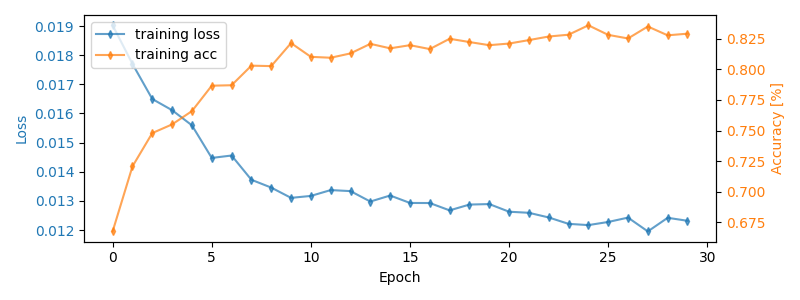
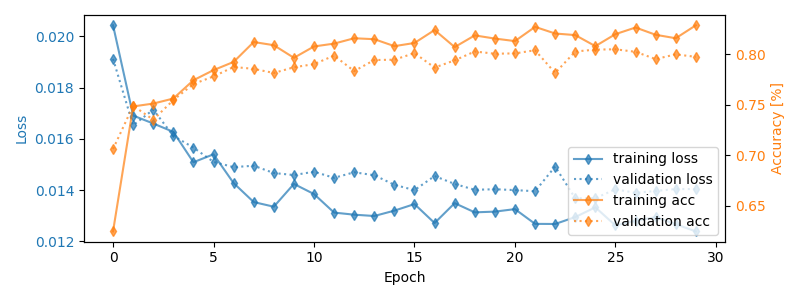
some xample changes to include validation dataset, and plot changes

diff --git a/examples/EEG_sleepstaging_rp.py b/examples/EEG_sleepstaging_rp.py
@@ -4,7 +4,7 @@ import torch
 import numpy as np
 import matplotlib.pyplot as plt
 
-from neurocode.utils import BCEWithLogitsAccuracy
+from neurocode.utils import BCEWithLogitsAccuracy, recording_train_valid_split
 from neurocode.datasets import RecordingDataset
 from neurocode.samplers import RelativePositioningSampler
 from neurocode.models import ContrastiveNet, StagerNet
@@ -21,14 +21,15 @@ window_size_s = 30
 sfreq = 100
 window_size_samples = window_size_s * sfreq
 picks = 'eeg'
-subjects = list(range(3))
+subjects = list(range(11))
 recordings = [1]
 tau_pos =  2  # 2*30 seconds = 60 seconds = 1 minute makes up the positive context
 tau_neg = 30  # 30*30 seconds = 900 seconds = 15 minutes makes up the negative context
-n_samples = 256
+n_samples = 100
 batch_size = 32
 n_channels = 2
 emb_size = 100
+split = .7
 
 # fetch the dataset
 dataset = SleepPhysionet(subject_ids=subjects, recording_ids=recordings, crop_wake_mins=30, load_eeg_only=True)
@@ -47,12 +48,14 @@ windows_dataset = create_fixed_length_windows(dataset,
         preload=True, picks=picks)
 
 # Reformat the BaseConcatDataset created by braindecode to a recording-window relative dataset
-recording_dataset = RecordingDataset(windows_dataset.datasets, sfreq=sfreq, channels='eeg')
+recordings_train, recordings_valid = recording_train_valid_split(windows_dataset.datasets, split=split)
+datasets = dict(train=RecordingDataset(recordings_train, sfreq=sfreq, channels='MEG'),
+                valid=RecordingDataset(recordings_valid, sfreq=sfreq, channels='MEG'))
+#recording_dataset = RecordingDataset(windows_dataset.datasets, sfreq=sfreq, channels='eeg')
 
 # Set up a Relative Positioning sampler to use for training the Contrastive Network
-sampler = RelativePositioningSampler(recording_dataset.get_data(), 
-        recording_dataset.get_info(), tau_neg=tau_neg, tau_pos=tau_pos,
-        n_samples=n_samples, batch_size=batch_size)
+samplers = dict(train=RelativePositioningSampler(datasets['train'].get_data(), datasets['train'].get_info(), tau_neg=tau_neg, tau_pos=tau_pos, n_samples=n_samples, batch_size=batch_size),
+                valid=RelativePositioningSampler(datasets['valid'].get_data(), datasets['valid'].get_info(), tau_neg=tau_neg, tau_pos=tau_pos, n_samples=n_samples, batch_size=batch_size, presample=True))
 
 # Setup pytorch training, move models etc.
 device = 'cuda' if torch.cuda.is_available() else 'cpu'
@@ -62,7 +65,7 @@ optimizer = torch.optim.Adam(model.parameters(), lr=5e-4, weight_decay=1e-6)
 criterion = torch.nn.BCEWithLogitsLoss()
 
 epochs = 30
-history = dict(tloss=list(), tacc=list())
+history = dict(tloss=list(), tacc=list(), vloss=list(), vacc=list())
 emb.train()
 model.train()
 
@@ -71,7 +74,8 @@ print(f'  epoch      training loss      training acc')
 print(f'--------------------------------------------------')
 for epoch in range(epochs):
     tloss, tacc = 0., 0.
-    for batch, (anchors, samples, labels) in enumerate(sampler):
+    vloss, vacc = 0., 0.
+    for batch, (anchors, samples, labels) in enumerate(samplers['train']):
         anchors, samples, labels = anchors.to(device), samples.to(device), torch.unsqueeze(labels.to(device), dim=1)
         optimizer.zero_grad()
         outputs = model((anchors, samples))
@@ -80,16 +84,31 @@ for epoch in range(epochs):
         optimizer.step()
         tloss += loss.item() / outputs.shape[0]
         tacc += BCEWithLogitsAccuracy(outputs, labels) / outputs.shape[0]
-    tloss /= len(sampler)
-    tacc /= len(sampler)
+    emb.eval()
+    model.eval()
+    with torch.no_grad():
+        for batch, (anchors, samples, labels) in enumerate(samplers['valid']):    
+            anchors, samples, labels = anchors.to(device), samples.to(device), torch.unsqueeze(labels.to(device), dim=1)
+            outputs = model((anchors, samples))
+            loss = criterion(outputs, labels)
+            vloss += loss.item() / outputs.shape[0]
+            vacc += BCEWithLogitsAccuracy(outputs, labels) / outputs.shape[0]
+    tloss /= len(samplers['train'])
+    vloss /= len(samplers['valid'])
+    tacc /= len(samplers['train'])
+    vacc /= len(samplers['valid'])
     history['tloss'].append(tloss)
+    history['vloss'].append(vloss)
     history['tacc'].append(tacc)
-    print(f'    {epoch+1:02d}          {tloss:.5f}           {100*tacc:.2f}%')
+    history['vacc'].append(vacc)
+    print(f'   {epoch+1:02d}       {tloss:.5f}       {vloss:.5f}       {100*tacc:.2f}%      {100*vacc:.2f}%')
 
 fig, ax1 = plt.subplots(figsize=(8,3))
 ax2 = ax1.twinx()
-ax1.plot(history['tloss'], ls='-', marker='d', ms=4, alpha=.7, color='tab:blue', label='training loss')
-ax2.plot(history['tacc'], ls='-', marker='d', ms=4, alpha=.7, color='tab:orange', label='training acc')
+ax1.plot(history['tloss'], ls='-', marker='d', ms=5, alpha=.7, color='tab:blue', label='training loss')
+ax1.plot(history['vloss'], ls=':', marker='d', ms=5, alpha=.7, color='tab:blue', label='validation loss')
+ax2.plot(history['tacc'], ls='-', marker='d', ms=5, alpha=.7, color='tab:orange', label='training acc')
+ax2.plot(history['vacc'], ls=':', marker='d', ms=5, alpha=.7, color='tab:orange', label='validation acc')
 ax1.tick_params(axis='y', labelcolor='tab:blue')
 ax1.set_ylabel('Loss', color='tab:blue')
 ax2.tick_params(axis='y', labelcolor='tab:orange')

diff --git a/examples/MEG_psd_rrp.py b/examples/MEG_psd_rrp.py
@@ -107,8 +107,10 @@ for epoch in range(epochs):
 
 fig, ax1 = plt.subplots(figsize=(8,3))
 ax2 = ax1.twinx()
-ax1.plot(history['tloss'], ls='-', marker='d', ms=4, alpha=.7, color='tab:blue', label='training loss')
-ax2.plot(history['tacc'], ls='-', marker='d', ms=4, alpha=.7, color='tab:orange', label='training acc')
+ax1.plot(history['tloss'], ls='-', marker='d', ms=5, alpha=.7, color='tab:blue', label='training loss')
+ax1.plot(history['vloss'], ls=':'. marker='d'. ms=5, alpha=.7, color='tab:blue', label='validation loss')
+ax2.plot(history['tacc'], ls='-', marker='d', ms=5, alpha=.7, color='tab:orange', label='training acc')
+ax2.plot(history['vacc'], ls=':', marker='d', ms=5, alpha=.7, color='tab:orange', label='validation acc')
 ax1.tick_params(axis='y', labelcolor='tab:blue')
 ax1.set_ylabel('Loss', color='tab:blue')
 ax2.tick_params(axis='y', labelcolor='tab:orange')
@@ -120,5 +122,4 @@ lines2, labels2 = ax2.get_legend_handles_labels()
 ax2.legend(lines1+lines2, labels1+labels2)
 plt.tight_layout()
 plt.savefig('sleepstaging_relative-positioning_training.png')
-
 
